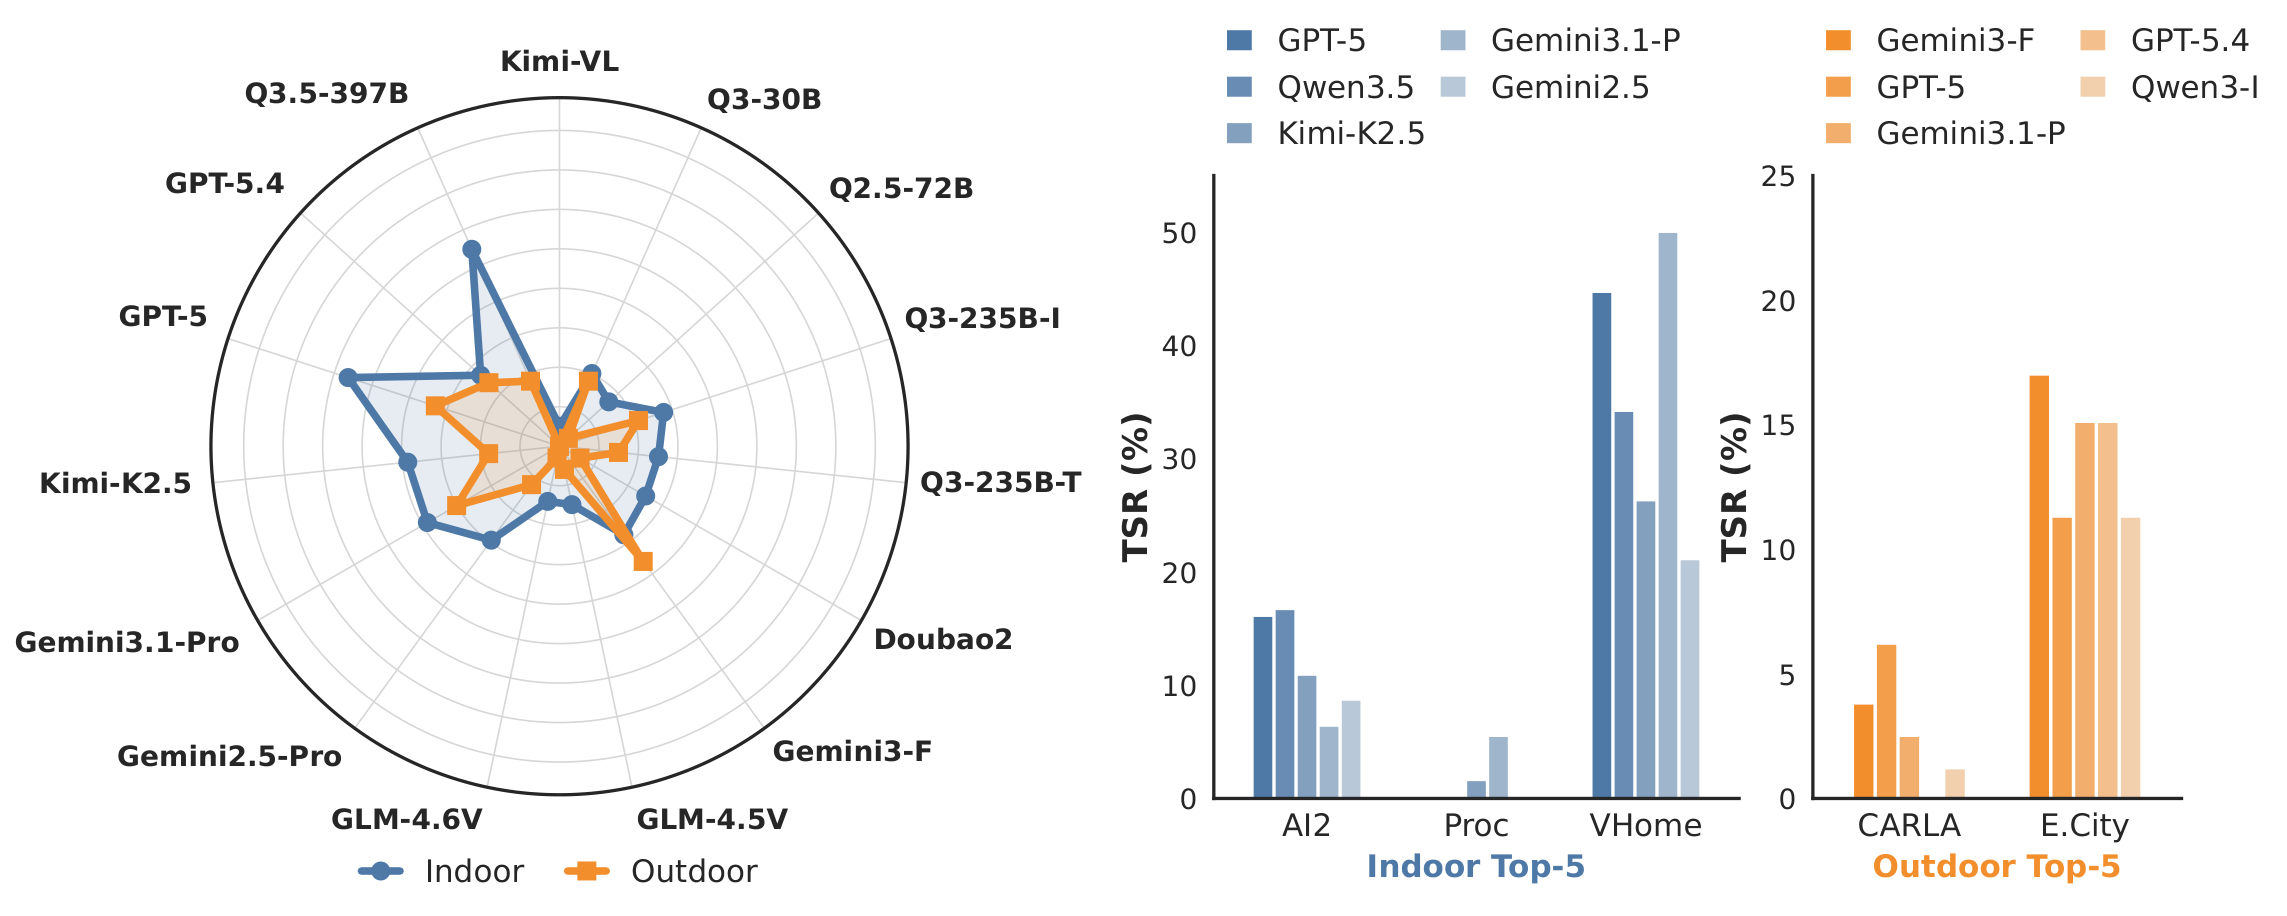
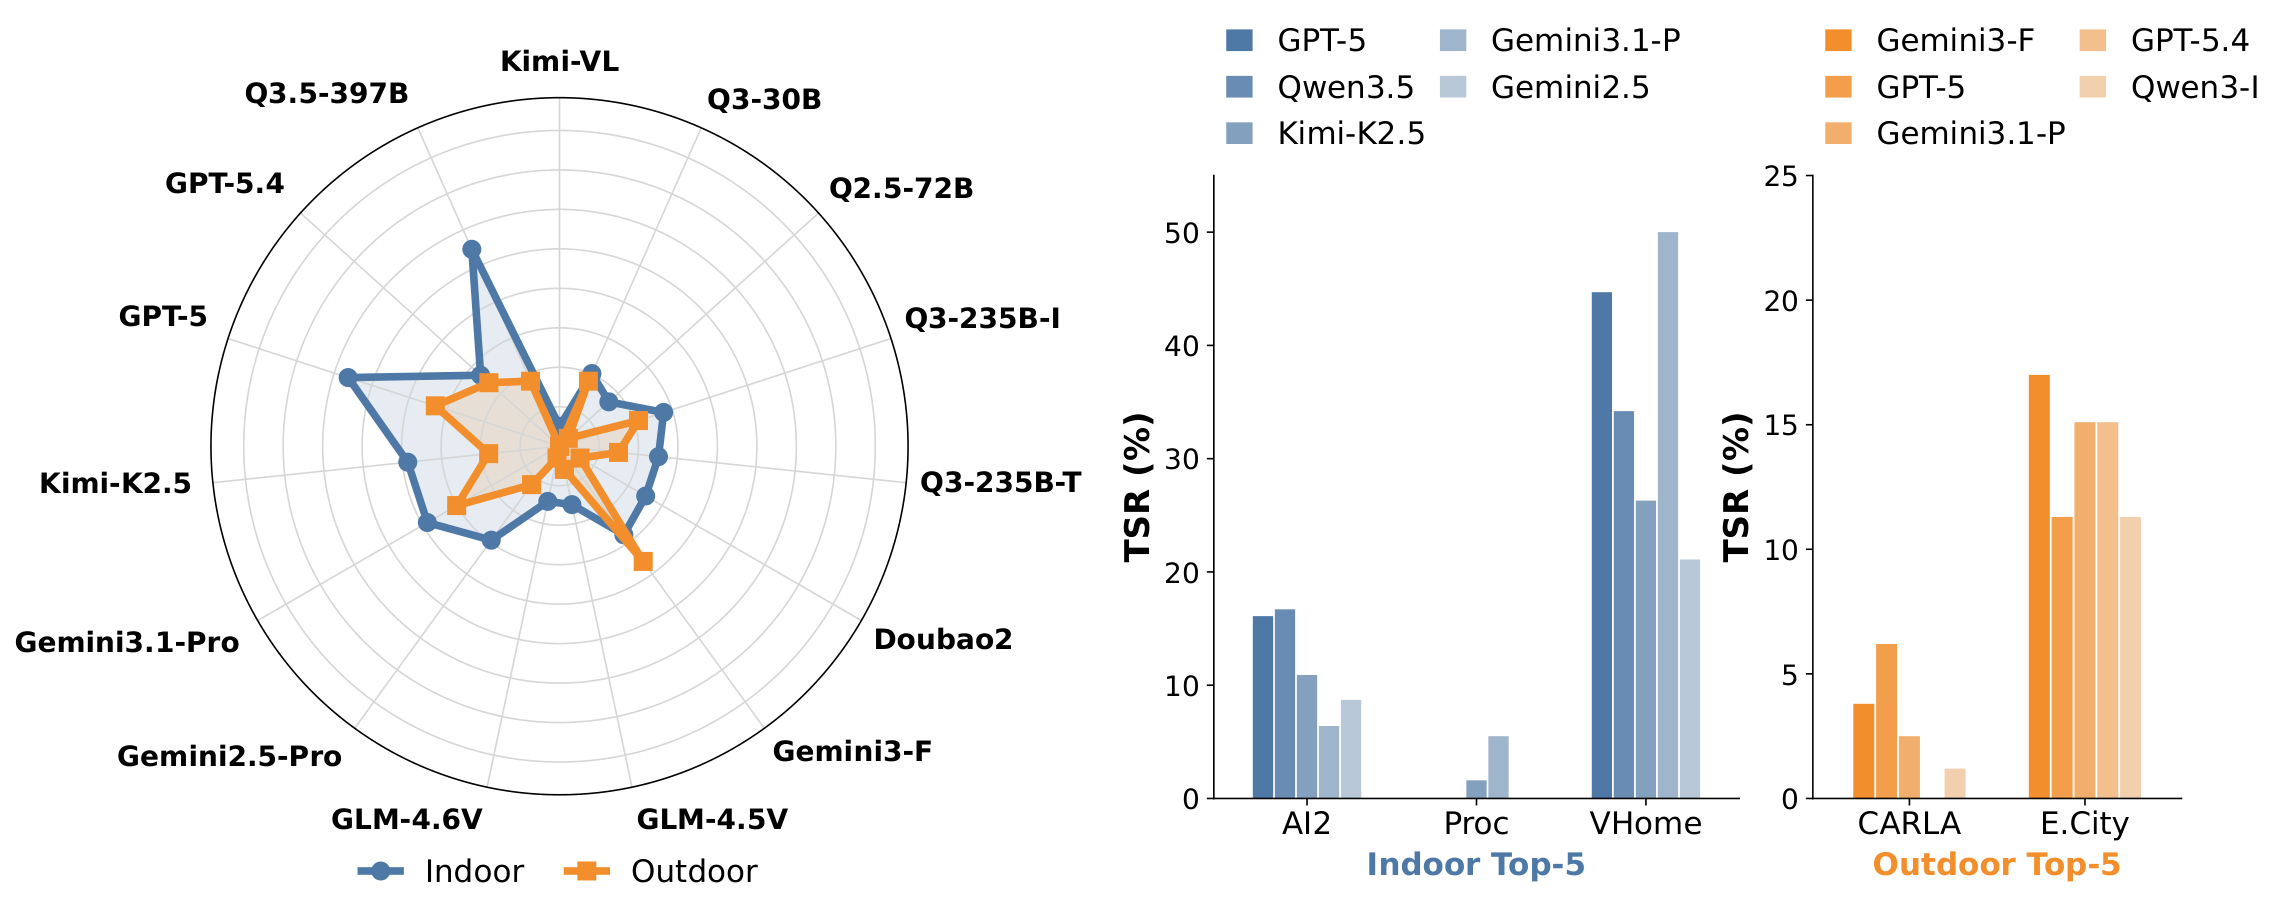
upreadme

diff --git a/README.md b/README.md
@@ -52,6 +52,7 @@ SpatialWorld unifies diverse 3D backends under a standardized observation-action
 - **Physical tasks remain especially hard.** GPT-5 achieves **14.4%** Physical Overall TSR, followed by Qwen-3.5-397B-A17B at **12.2%**.
 - **Success is not efficiency.** Models with comparable TSR can differ substantially in step efficiency (SE), indicating redundant exploration and task-dependent shortcuts.
 - **Domain-specific strengths.** GPT-5 leads Daily (**14.9%**), Travel (**6.8%**), and Social Collaboration (**34.8%**); Qwen-3.5-397B-A17B ties GPT-5 in Work & Study (**16.9%**) and leads physical entertainment; Gemini-3.1-Pro leads digital 3D games (**39.0%** TSR).
+- **Indoor vs. outdoor domain shift.** GPT-5 (**14.1%**) and Qwen-3.5-397B-A17B (**13.7%**) lead indoors; Gemini-3-Flash (**9.0%**) and GPT-5 (**8.3%**) lead outdoors.
 - **Vision-only closed-loop evaluation.** Agents actively explore under partial observability using only egocentric RGB and a text-based action interface.
 
 ## Experimental Results
@@ -66,8 +67,8 @@ Full TSR / SE tables and task examples are on the **[project page](https://spati
 | Kimi-K2.5 | 9.2 | 31.0 | Competitive social and game performance |
 
 <p align="center">
-  <img src="assets/main_indoor_outdoor_radar_top5.png" alt="Indoor vs outdoor radar chart for top-5 models" width="900"><br>
-  <em>Indoor vs. Outdoor Performance - Top-5 Models</em>
+  <img src="assets/main_indoor_outdoor_radar_top5.png" alt="Indoor and outdoor physical domains" width="900"><br>
+  <em>Indoor and outdoor physical domains — overall TSR with environment-level bars for the top-five models in each domain.</em>
 </p>
 
 <details>